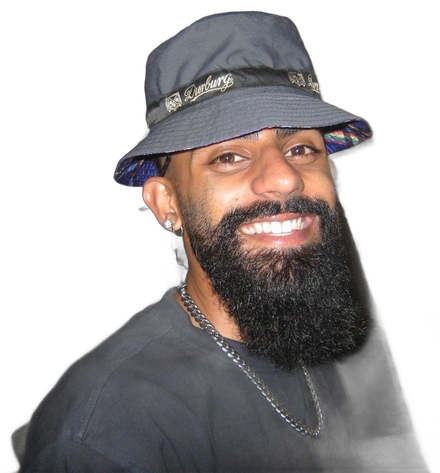
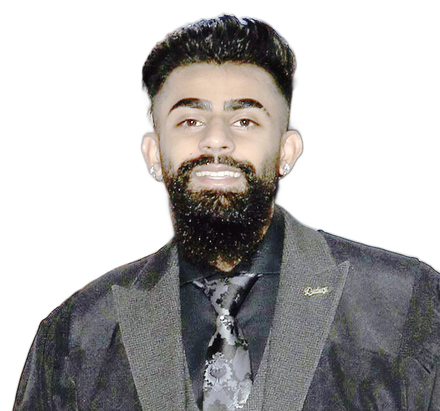
New hologram photo

diff --git a/src/data/skills.ts b/src/data/skills.ts
@@ -39,98 +39,108 @@ export const skills: Skill[] = [
     id: 'datascience',
     name: 'Data Science',
     branch: 'Craft',
-    rating: 78,
-    headline: 'I turn data into decisions people can trust.',
+    rating: 80,
+    locked: true,
+    headline: 'I help people make better choices with data.',
     story: [
-      'I love the moment a messy question finally becomes clear. Most of my work is not about clever models. It is about finding the one number that truly matters to the person who has to act on it.',
-      'Every project reminds me to listen first, ask better questions and only then let the data speak.',
+      'I work with data every day. My job is to find what the numbers are really saying and explain it in a way people can use.',
+      'In a recent hackathon, I built a model to predict which customers would use a coupon. I kept every step short and clear so anyone could follow my thinking.',
     ],
     evidence: [
-      'Deliver analysis that shapes real business decisions',
-      'Selected for a data science mastery programme',
+      'Work as a data scientist in banking',
+      'Built a coupon prediction model in the SBSA Advance ML Hackathon',
+      'Chosen for the Standard Bank Data Science Mastery Programme',
     ],
-    nextLevel: 'Own a piece of work from the first question all the way to the change it creates.',
+    nextLevel: 'Take one project from the first question all the way to a real change at work.',
   },
+
   {
-    id: 'dataengineering',
-    name: 'Data Engineering',
-    branch: 'Craft',
-    rating: 70,
-    headline: 'I like to understand how things work underneath.',
+    id: 'understandingpeople',
+    name: 'Understanding people',
+    branch: 'People',
+    rating: 78,
+    locked: true,
+    headline: 'I try to see things the way others see them.',
     story: [
-      'A good answer is only as strong as the data that feeds it. That is why I enjoy building the pipes, not just reading what comes out of them.',
-      'When a course offered a safe practice space, I chose to set things up myself in the cloud. It was harder, and I learned far more because of it.',
+      'At Henley Business School I learned about mental models. These are the beliefs we carry that shape how we see a problem.',
+      'This changed how I listen. When someone sees things another way I ask them why. I want to understand them more than I want to be right.',
     ],
     evidence: [
-      'Built and ran big data workloads in the cloud',
-      'Completed a hands on data engineering course',
+      'Learned about mental models at Henley Business School',
+      'Ask about the reason behind a view before I reply',
     ],
-    nextLevel: 'Build a small pipeline that runs on its own, every day, without me watching it.',
+    nextLevel: 'Before a big meeting I will think about how each person might see the problem.',
   },
+
   {
     id: 'rootcauses',
-    name: 'Seeing beneath the surface',
+    name: 'Finding the real problem',
     branch: 'Craft',
-    rating: 74,
-    headline: 'When the easy answer arrives first, I keep digging.',
+    rating: 75,
+    locked: true,
+    headline: 'I do not stop at the first answer.',
     story: [
-      'It is tempting to blame people or accept a quick fix. I have learned that most problems live deeper, in the patterns and systems around them.',
-      'Looking underneath takes patience, but it is the difference between treating a symptom and actually helping.',
+      'It is easy to blame people or go for a quick fix. Most problems run deeper than that.',
+      'I take the time to look at what is really going on. That is how you fix the cause and not just the sign of it.',
     ],
     evidence: [
-      'Applied systems thinking to a real business problem',
-      'Looked past quick fixes to find the root cause',
+      'Used systems thinking on a real business problem',
+      'Looked past quick fixes to find the cause',
     ],
-    nextLevel: 'Bring this way of thinking in early, before a solution has already been chosen.',
+    nextLevel: 'Look for the real problem early before anyone picks a solution.',
   },
+
   {
-    id: 'initiative',
-    name: 'Initiative',
+    id: 'testfirst',
+    name: 'Test before I suggest',
     branch: 'Builder',
     rating: 82,
-    headline: 'I would rather build it than wait for it.',
+    headline: 'I prove an idea works before I ask others to use it.',
     story: [
-      'When I see something that could be better, I struggle to leave it alone. I start small, learn as I go and keep moving.',
-      'This showcase is a good example. I did not want another list of job titles, so I built something that shows who I am instead.',
+      'When I have an idea I build a small working version first. This is called a proof of concept.',
+      'It shows me quickly if the idea will work. That saves time for me and for everyone else. People can trust my ideas because I have already tried them.',
     ],
     evidence: [
-      'Turned ideas into working projects from scratch',
-      'Built this holographic showcase from a single photo',
+      'Test ideas with a small working version before I share them',
+      'Built and tested this showcase in small steps',
     ],
-    nextLevel: 'Finish more of what I start, and share it sooner.',
+    nextLevel: 'Share what I learn from each test so others can learn from it too.',
   },
+
   {
-    id: 'planning',
-    name: 'Thinking ahead',
-    branch: 'Builder',
-    rating: 72,
-    headline: 'Prove the need before you invest.',
+    id: 'detail',
+    name: 'Attention to detail',
+    branch: 'Craft',
+    rating: 80,
+    locked: true,
+    headline: 'I want to know how a number was made before I trust it.',
     story: [
-      'Big ideas are exciting, but I have learned to ask a quieter question first: does anyone actually need this?',
-      'I test with small steps before committing time or money. It is the same instinct I bring to data work. Check the demand before you build the model.',
+      'When I see a score I ask how it was worked out. I look at the method behind it and how each part was weighted.',
+      'Small choices in a method can change the answer a lot. Asking these questions helps me catch mistakes early and stand behind my work.',
     ],
     evidence: [
-      'Test ideas in small, safe steps before committing',
-      'Plan with evidence rather than hope',
+      'Compare methods to see how they differ before I choose one',
+      'Check how weights and scores are worked out',
     ],
-    nextLevel: 'Write down my assumptions at the start of every project and check them halfway.',
+    nextLevel: 'Write down how I built each score so others can check it too.',
   },
+
   {
     id: 'connection',
     name: 'Connection',
     branch: 'People',
-    rating: 88,
+    rating: 85,
     headline: 'People give me energy.',
     story: [
       'I come alive in good conversation. A room feels better to me when people are talking, laughing and sharing ideas.',
-      'Data work can be lonely if you let it. I want to use this gift on purpose, building the kind of trust that helps an insight truly land.',
     ],
     evidence: [
-      'Build trust easily with new people',
-      'Comfortable starting conversations in any room',
+      'Build trust quickly with new people',
+      'Happy to start a conversation in any room',
     ],
-    nextLevel: 'Invite the people affected into my work from the very start, not only at the end.',
+    nextLevel: 'Bring people into my work at the start and not only at the end.',
   },
+
   {
     id: 'teamwork',
     name: 'Teamwork',
@@ -145,36 +155,41 @@ export const skills: Skill[] = [
       'Play team sport regularly',
       'Bring a team first mindset to every project',
     ],
-    nextLevel: 'Hold a short, honest debrief after each project, the way a coach reviews a match.',
+    nextLevel: 'Hold a short, honest debrief after each project. The way a coach reviews a match.',
   },
+
   {
     id: 'curiosity',
     name: 'Learning through play',
     branch: 'People',
-    rating: 76,
-    headline: 'I learn best by trying, failing and trying again.',
+    rating: 70,
+    locked: true,
+    headline: 'I learn by trying and trying again.',
     story: [
-      'Games taught me to read a new system quickly. You learn the rules, spot the patterns and change your approach when it stops working.',
-      'I want to bring more of that playful courage into my work, and worry less about getting it perfect the first time.',
+      'Games taught me to learn new things fast. You learn the rules and spot the patterns. When something stops working you try another way.',
+      'I want to bring more of that into my work. I want to try more and worry less about getting it perfect the first time.',
     ],
     evidence: [
-      'Pick up new tools and systems quickly',
-      'Comfortable experimenting until something works',
+      'Learn new tools quickly',
+      'Happy to try things until they work',
     ],
-    nextLevel: 'Share early versions of my work so others can shape it with me.',
+    nextLevel: 'Show others my work early so they can help shape it.',
   },
+
   {
-    id: 'storytelling',
-    name: 'Data storytelling',
-    branch: 'Next branch',
-    rating: 55,
-    locked: true,
-    headline: 'The skill I am growing right now.',
+    id: 'structuredthinking',
+    name: 'Structured thinking',
+    branch: 'Craft',
+    rating: 90,
+    headline: 'I break big problems into small parts.',
     story: [
-      'Finding the insight is only half the job. The other half is helping people see it, feel it and act on it.',
-      'This is where I am pushing myself next: telling the story behind the numbers in a way that fits the people in the room.',
+      'When I face a problem I split it up. I look at what goes in and how it is worked out. Then I look at what can change and what comes out.',
+      'Seeing each part on its own makes a hard problem easier to solve. It also helps me explain my thinking to others.',
     ],
-    evidence: ['Named as my main growth area this year'],
-    nextLevel: 'Present one piece of work as a story instead of a slide of charts, and ask for honest feedback.',
+    evidence: [
+      'Break problems into inputs, methods, variables and outputs',
+      'Write down the assumptions behind my work',
+    ],
+    nextLevel: 'Use this to help my team plan big pieces of work together.',
   },
 ]

diff --git a/scripts/prepare_hologram.py b/scripts/prepare_hologram.py
@@ -16,12 +16,25 @@ import sys
 from pathlib import Path
 
 import numpy as np
-from PIL import Image, ImageFilter
+from PIL import Image, ImageEnhance, ImageFilter, ImageOps
 from rembg import new_session, remove
 from scipy import ndimage
 
 OUT_DIR = Path(__file__).resolve().parent.parent / "src" / "assets" / "hologram"
 TARGET_WIDTH = 440  # smaller = fewer particles = faster on phones
+
+
+def boost_contrast(cutout: Image.Image) -> Image.Image:
+    """Even out the light on the person so dark hair, beards and suits still glow."""
+    alpha = cutout.split()[-1]
+    rgb = cutout.convert("RGB")
+    person = alpha.point(lambda v: 255 if v > 128 else 0)
+    evened = ImageOps.equalize(rgb, mask=person)
+    rgb = Image.blend(rgb, evened, 0.5)
+    rgb = ImageEnhance.Brightness(rgb).enhance(1.1)
+    out = rgb.convert("RGBA")
+    out.putalpha(alpha)
+    return out
 
 
 def main(photo_path: str) -> None:
@@ -44,6 +57,7 @@ def main(photo_path: str) -> None:
         min(ys.max() + pad, cutout.height),
     )
     cutout = cutout.crop(box)
+    cutout = boost_contrast(cutout)
     alpha = np.array(cutout.split()[-1]).astype(np.float32) / 255.0
 
     # 3. Build a depth map.
